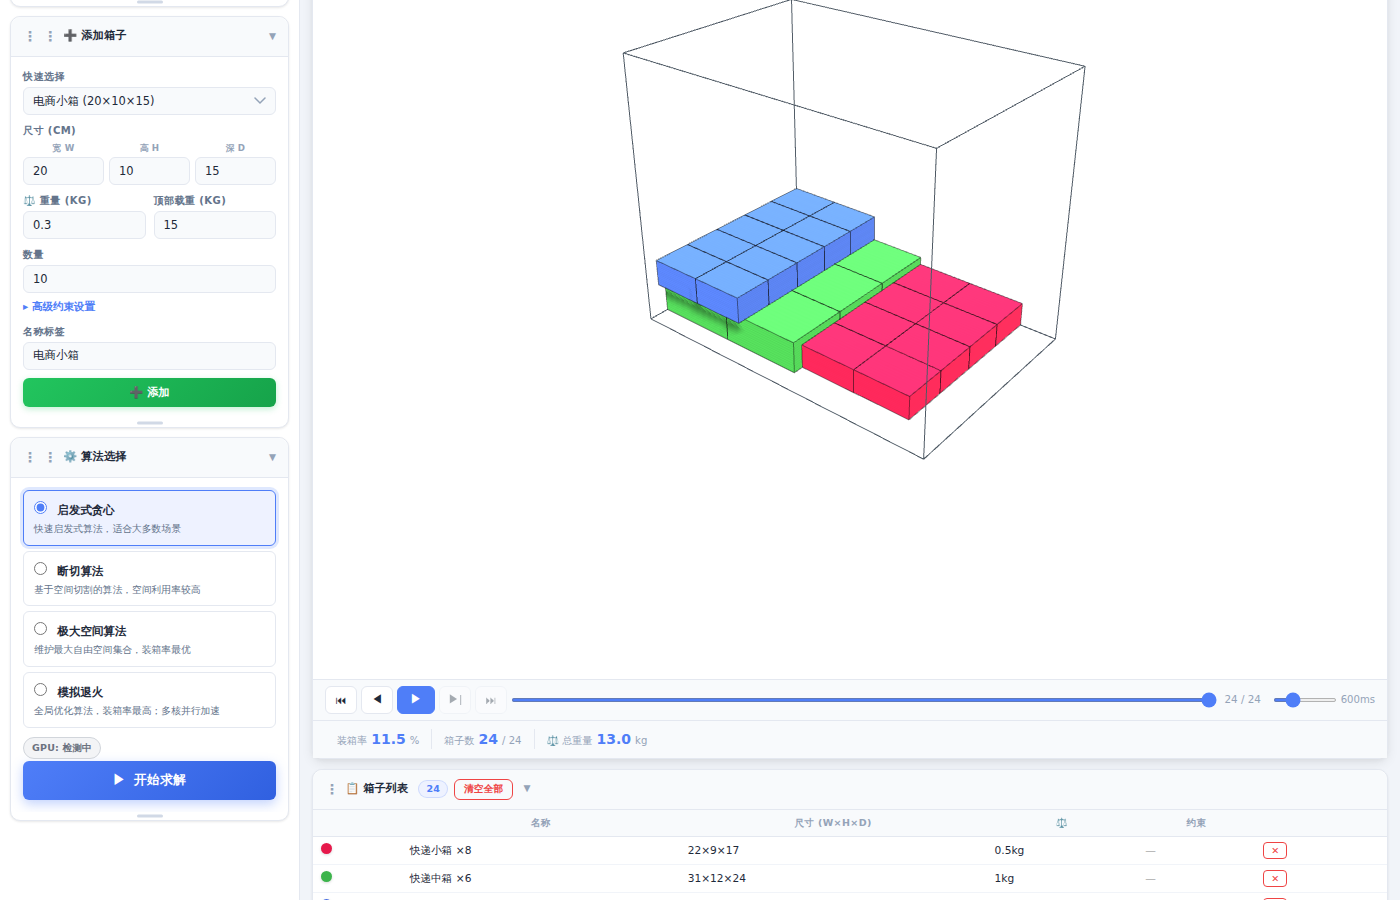
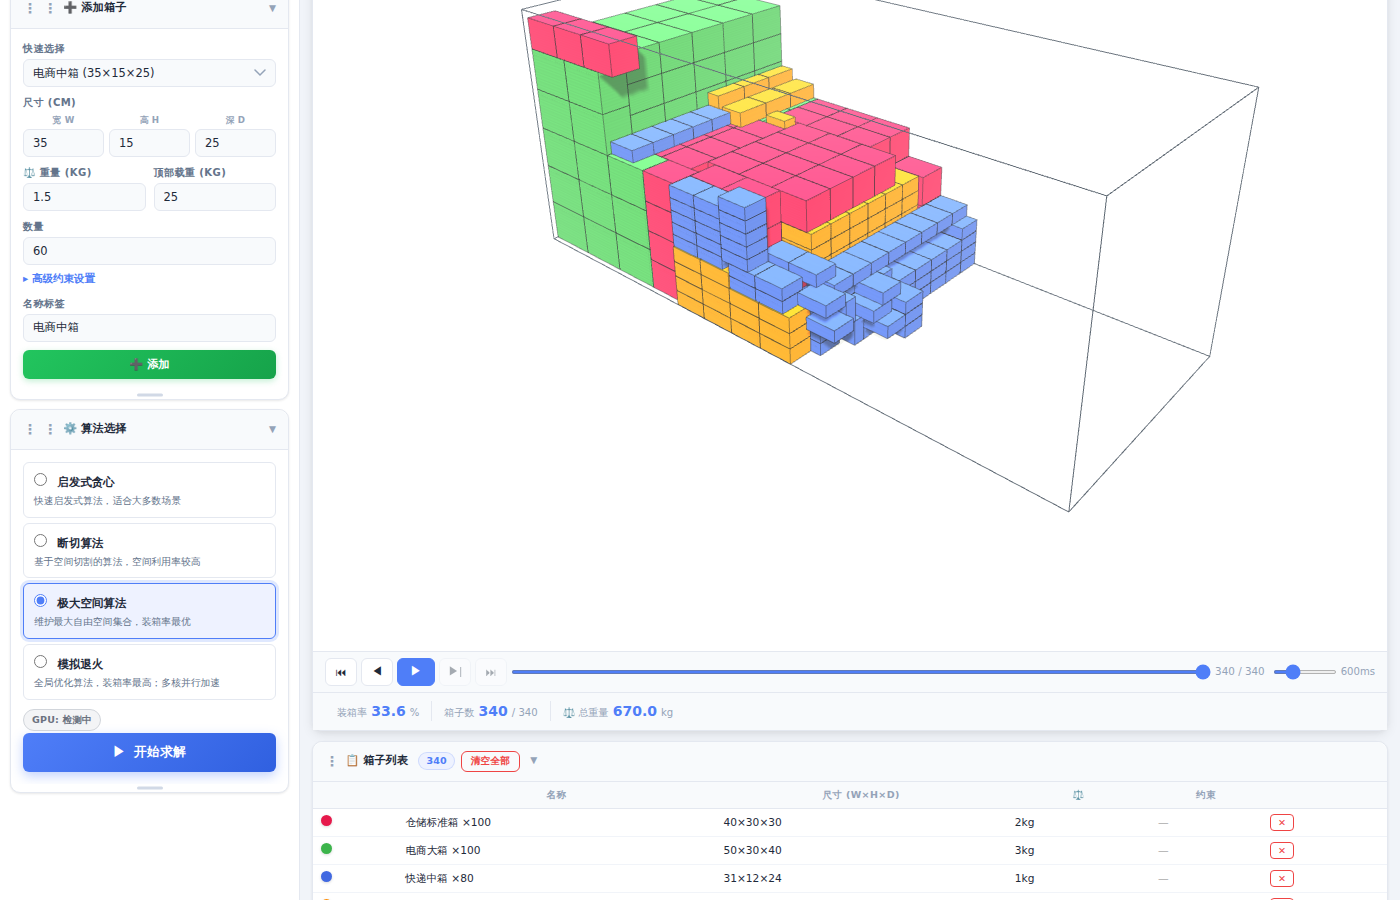
Fix MaximalSpacesSolver gravity-drop bug; update screenshot
Bug: gravityDrop scans all heights in the XZ column, including boxes
sitting on top of the selected free space (y >= sp.y + sp.h). This
could lift the newly placed box above the container ceiling, causing
canHold to fail and valid boxes to be wrongly marked unpackable.

Fix: clamp box.position.y to sp.y after gravityDrop so that gravity
can only drop a box to a lower position, never lift it above the
selected space's floor. Applied to both _solveCPU and _solveAsync.

Verified: 100 仓储标准箱 + 100 电商大箱 + more (340 total) now pack
correctly into a 20ft container (33.6% utilization).

Updated screenshot to show 20ft container with 4 box types packed
via 极大空间算法.

https://claude.ai/code/session_01Kz3ve11jf8J45gBquVRqf3

diff --git a/js/solvers/MaximalSpacesSolver.js b/js/solvers/MaximalSpacesSolver.js
@@ -119,6 +119,10 @@ export class MaximalSpacesSolver extends BaseSolver {
             box.orientation = bestOrientation;
             box.position    = new Vector3D(sp.x, sp.y, sp.z);
             gravityDrop(box, container);
+            // Gravity drop must not lift the box above the selected space's floor.
+            // A box sitting on top of sp (y ≥ sp.y) would otherwise push the new box
+            // above the container ceiling, causing canHold to fail spuriously.
+            if (box.position.y > sp.y) box.position.y = sp.y;
 
             if (!container.canHold(box)) { unPackable.push(box); continue; }
             container.put(box);
@@ -191,6 +195,7 @@ export class MaximalSpacesSolver extends BaseSolver {
             box.orientation = bestOrientation;
             box.position    = new Vector3D(sp.x, sp.y, sp.z);
             gravityDrop(box, container);
+            if (box.position.y > sp.y) box.position.y = sp.y;
 
             if (!container.canHold(box)) { unPackable.push(box); continue; }
             container.put(box);
